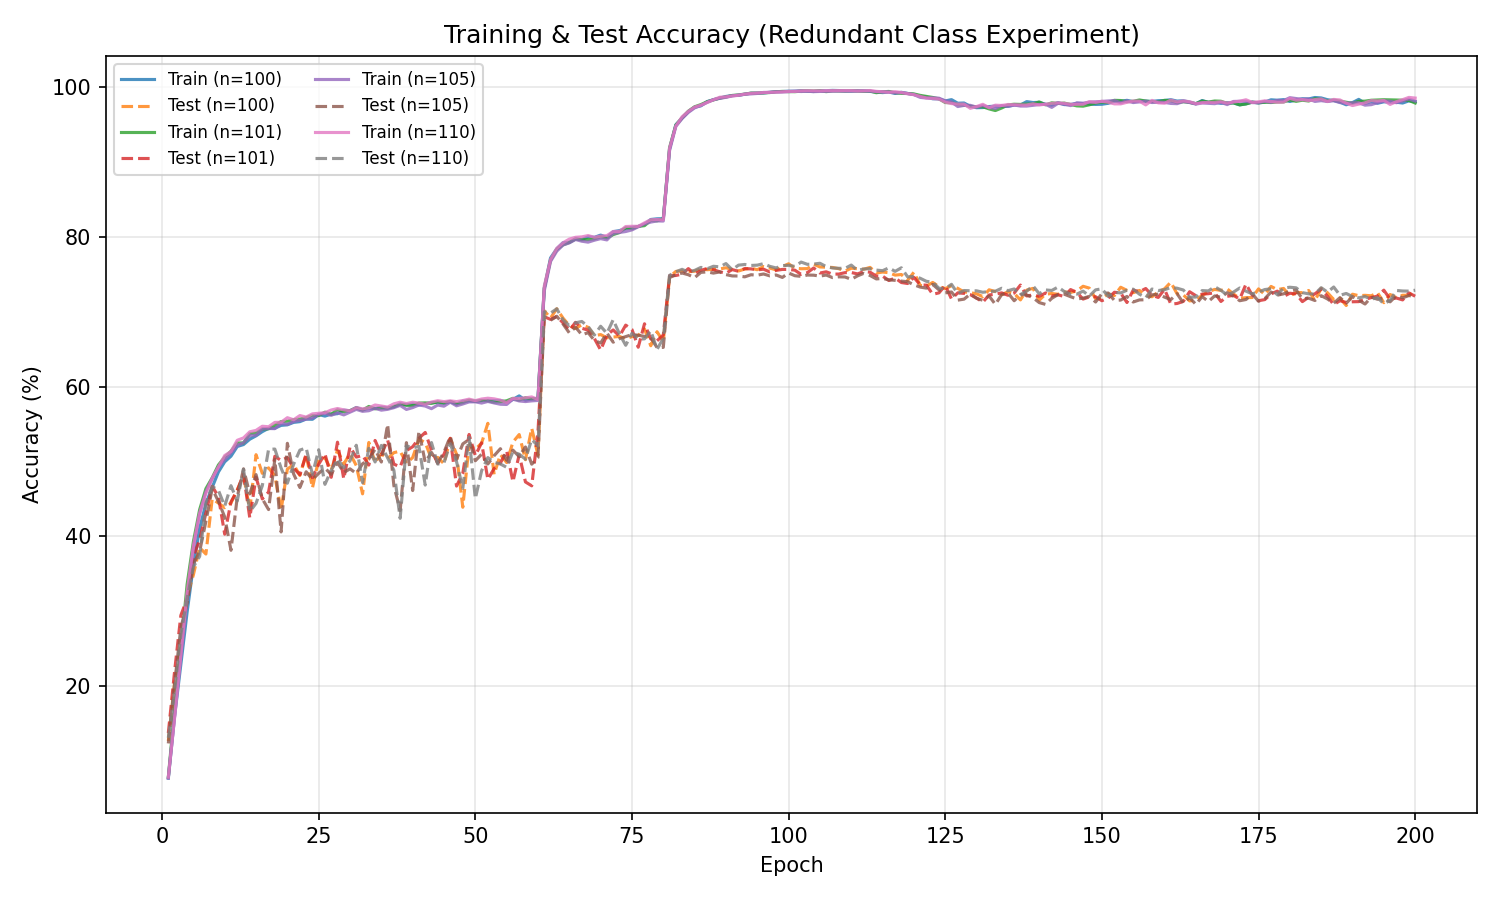
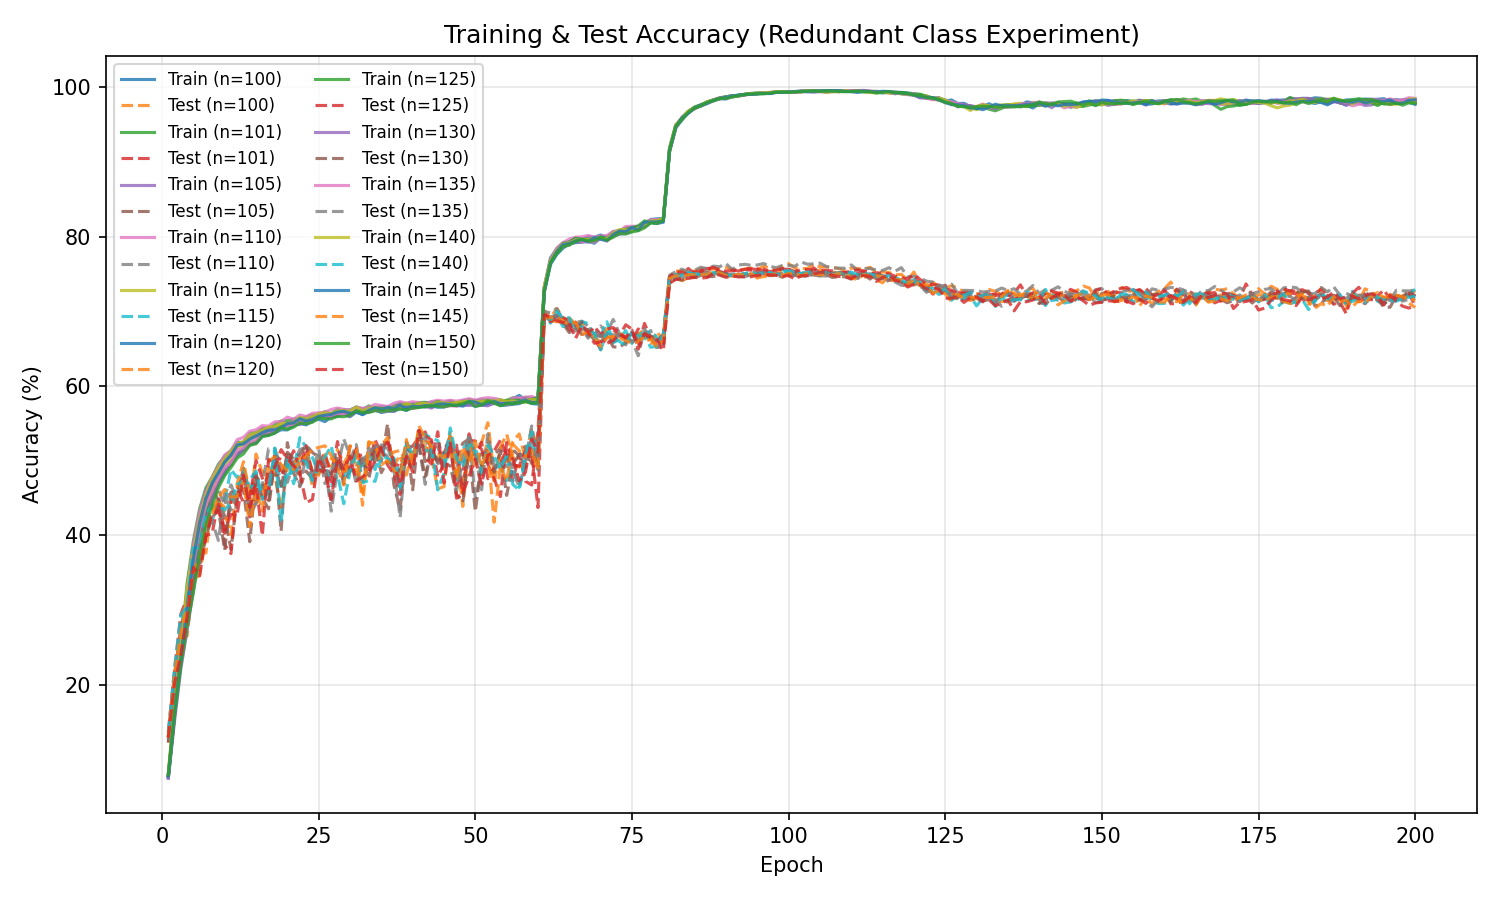
update addtional 8 settings

diff --git a/train_single.py b/train_single.py
@@ -94,7 +94,7 @@ def setup_logging(log_path):
 
 def main():
     parser = argparse.ArgumentParser()
-    parser.add_argument("--num_classes", type=int, default=100, choices=[100, 101, 105, 110])
+    parser.add_argument("--num_classes", type=int, default=100, choices=[100, 101, 105, 110, 115, 120, 125, 130, 135, 140, 145, 150])
     parser.add_argument("--log_file", type=str, default="train_100.log")
     parser.add_argument("--data_root", type=str, default="./data")
     parser.add_argument("--epochs", type=int, default=200)

diff --git a/run_all.py b/run_all.py
@@ -9,10 +9,14 @@ from pathlib import Path
 
 # Experiment config: num_classes -> log_file
 EXPERIMENTS = [
-    (100, "train_100.log"),
-    (101, "train_101.log"),
-    (105, "train_105.log"),
-    (110, "train_110.log"),
+    (115, "train_115.log"),
+    (120, "train_120.log"),
+    (125, "train_125.log"),
+    (130, "train_130.log"),
+    (135, "train_135.log"),
+    (140, "train_140.log"),
+    (145, "train_145.log"),
+    (150, "train_150.log"),
 ]
 
 SCRIPT_DIR = Path(__file__).resolve().parent

diff --git a/visualize.py b/visualize.py
@@ -20,7 +20,7 @@ LAST_N = 20
 
 def load_histories():
     histories = {}
-    for n in [100, 101, 105, 110]:
+    for n in [100, 101, 105, 110, 115, 120, 125, 130, 135, 140, 145, 150]:
         p = LOGS_DIR / f"history_{n}.json"
         if p.exists():
             with open(p) as f:

diff --git a/README.md b/README.md
@@ -43,8 +43,16 @@ Generates `plots/loss.png`, `plots/accuracy.png`, `plots/combined.png`, and `plo
 | 101 | 0.0782 ± 0.0047 | 1.2274 ± 0.0329 | 98.17 ± 0.15% | 71.87 ± 0.54% |
 | 105 | 0.0818 ± 0.0076 | 1.2337 ± 0.0249 | 98.06 ± 0.23% | 71.76 ± 0.43% |
 | 110 | 0.0784 ± 0.0087 | 1.2012 ± 0.0289 | 98.14 ± 0.28% | **72.37 ± 0.58%** |
+| 115 | 0.0794 ± 0.0074 | 1.2396 ± 0.0251 | 98.14 ± 0.23% | 71.77 ± 0.53% |
+| 120 | 0.0785 ± 0.0073 | 1.2342 ± 0.0369 | 98.18 ± 0.22% | 71.72 ± 0.67% |
+| 125 | 0.0795 ± 0.0074 | 1.2232 ± 0.0338 | 98.14 ± 0.22% | 71.90 ± 0.77% |
+| 130 | 0.0790 ± 0.0071 | 1.2383 ± 0.0322 | 98.17 ± 0.23% | 71.67 ± 0.68% |
+| 135 | 0.0794 ± 0.0055 | 1.2272 ± 0.0230 | 98.16 ± 0.16% | 71.85 ± 0.37% |
+| 140 | 0.0814 ± 0.0054 | 1.2322 ± 0.0256 | 98.07 ± 0.18% | 71.65 ± 0.50% |
+| 145 | 0.0812 ± 0.0055 | 1.2451 ± 0.0241 | 98.08 ± 0.16% | 71.54 ± 0.59% |
+| 150 | 0.0819 ± 0.0086 | 1.2466 ± 0.0270 | 98.08 ± 0.27% | 71.63 ± 0.60% |
 
-110 classes achieves slightly higher test accuracy than 100 classes in the last 20 epochs.
+110 classes achieves the highest test accuracy (72.37%) among all configurations (100–150 classes) in the last 20 epochs.
 
 ## GPU Memory
 
